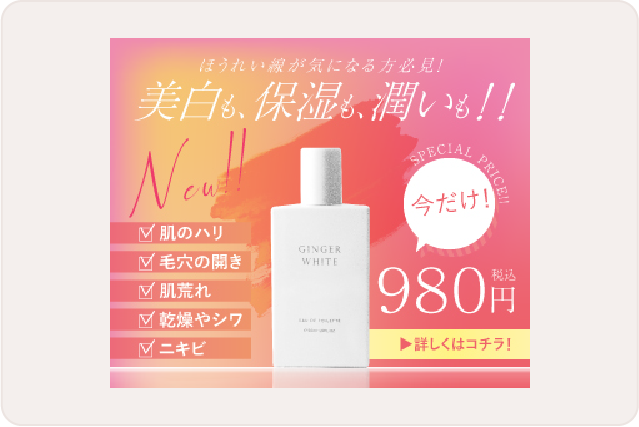
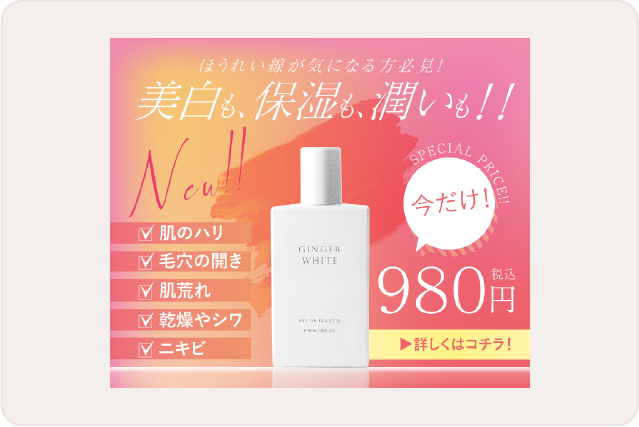
portfolio

diff --git a/Portfolio_kawamura/Works/works_banner2.html b/Portfolio_kawamura/Works/works_banner2.html
@@ -7,6 +7,9 @@
     <meta name="viewport" content="width=device-width, initial-scale=1.0">
     <title>Rena design_Works</title>
     <meta name="description" content="大阪府在住のWebデザイナーのポートフォリオサイトです。">
+    <link rel="shortcut icon" href="../favicon.ico">
+    <link rel="apple-touch-icon" href="../apple-touch-icon.png">
+    <link rel="icon" type="image/png" href="../android-chrome-192x192.png">
     <link rel="preconnect" href="https://fonts.googleapis.com">
     <link rel="preconnect" href="https://fonts.gstatic.com" crossorigin>
     <link href="https://fonts.googleapis.com/css2?family=Zen+Maru+Gothic:wght@300;400;700&display=swap"
@@ -77,7 +80,7 @@
         <section id="works" class="works">
             <h1 class="heading_main"><span class="works_w">W</span>orks</h1>
             <h2 class="heading_sub">制作したもの</h2>
-            <div class="works_img box fadeIn"><img src="../images/banner2.jpg" alt="アウトドアフェスタの告知バナー"></div>
+            <div class="works_img box fadeIn"><img src="../images/banner2top.png" alt="アウトドアフェスタの告知バナー"></div>
             <h3 class="workstitle box fadeIn">アウトドアフェスタの告知バナー</h3>
             <div class="works_content">
                 <div class="outline fade-in fade-in-up">
@@ -92,7 +95,7 @@
                 <div class="point fade-in fade-in-up">
                     <h4>制作のポイント</h4>
                     <p class="point_text">
-                        アウトドアフェスタの告知バナーをトレースしました。<br>背景の写真は、2枚の写真を自然に見えるように組み合わせました。また、アウトドアの文字上にあるテントのイラストはillustratorで作成しました。
+                        アウトドアフェスタの告知バナーをトレースしました。<br>背景の写真は、2枚の写真を自然につながって見えるように組み合わせました。また、アウトドアの文字上のテントのイラストは、illustratorで作成しました。
                     </p>
                 </div>
             </div>

diff --git a/Portfolio_kawamura/index.html b/Portfolio_kawamura/index.html
@@ -7,6 +7,9 @@
     <meta name="viewport" content="width=device-width, initial-scale=1.0">
     <title>Rena design</title>
     <meta name="description" content="大阪府在住のWebデザイナーのポートフォリオサイトです。">
+    <link rel="shortcut icon" href="favicon.ico">
+    <link rel="apple-touch-icon" href="apple-touch-icon.png">
+    <link rel="icon" type="image/png" href="android-chrome-192x192.png">
     <link rel="preconnect" href="https://fonts.googleapis.com">
     <link rel="preconnect" href="https://fonts.gstatic.com" crossorigin>
     <link href="https://fonts.googleapis.com/css2?family=Zen+Maru+Gothic:wght@300;400;700&display=swap"
@@ -216,18 +219,20 @@
                 var w = $(window).width();
                 var x = 768;
                 if (w < x) {
-                    //画面サイズが768px未満のときの処理
-                    $('.works ul').slick({
+                    $('.works ul').not('.slick-initialized').slick({
                         speed: 1000,
-                        slidesToScroll: 1,
-                        slidesToShow: 6,
-                        responsive: [{
-                            breakpoint: 767,
-                            settings: {
-                                slidesToShow: 1,
-                            }
-                        }],
+                        // slidesToScroll: 1,
+                        // slidesToShow: 1,
+                        // ↓画面サイズが768px未満のときの処理はPCとSPの設定が違う時のみ設定する
+                        // responsive: [{
+                        //     breakpoint: 767,
+                        //     settings: {
+                        //         slidesToShow: 1,
+                        //     }
+                        // }],
                     });
+                } else {
+                    $('.works ul.slick-initialized').slick('unslick');
                 }
             });
 

diff --git a/Portfolio_kawamura/Works/works_hairsalonhp.html b/Portfolio_kawamura/Works/works_hairsalonhp.html
@@ -7,6 +7,9 @@
     <meta name="viewport" content="width=device-width, initial-scale=1.0">
     <title>Rena design_Works</title>
     <meta name="description" content="大阪府在住のWebデザイナーのポートフォリオサイトです。">
+    <link rel="shortcut icon" href="../favicon.ico">
+    <link rel="apple-touch-icon" href="../apple-touch-icon.png">
+    <link rel="icon" type="image/png" href="../android-chrome-192x192.png">
     <link rel="preconnect" href="https://fonts.googleapis.com">
     <link rel="preconnect" href="https://fonts.gstatic.com" crossorigin>
     <link href="https://fonts.googleapis.com/css2?family=Zen+Maru+Gothic:wght@300;400;700&display=swap"
@@ -77,7 +80,7 @@
         <section id="works" class="works">
             <h1 class="heading_main"><span class="works_w">W</span>orks</h1>
             <h2 class="heading_sub">制作したもの</h2>
-            <div class="works_img box fadeIn"><img src="../images/hairsalonmock.jpg" alt="ヘアサロンのHP"></div>
+            <div class="works_img box fadeIn"><img src="../images/hairsalonmocktop.png" alt="ヘアサロンのHP"></div>
             <h3 class="workstitle box fadeIn">ヘアサロンのホームページ</h3>
             <div class="works_content">
                 <div class="outline fade-in fade-in-up">
@@ -97,7 +100,7 @@
             </div>
             <div class="capture fade-in fade-in-up">
                 <h4>キャプチャー</h4>
-                <div class="capture_pcimg fade-in fade-in-up"><img src="../images/hairsalon.jpg"
+                <div class="capture_pcimg fade-in fade-in-up"><img src="../images/hairsalon.png"
                         alt="PeoplegoodのPCキャプチャー"></div>
                 <div class="works_btn">
                     <a href="index.html">一覧を見る</a>

diff --git a/Portfolio_kawamura/Works/works_designcafe.html b/Portfolio_kawamura/Works/works_designcafe.html
@@ -7,6 +7,9 @@
     <meta name="viewport" content="width=device-width, initial-scale=1.0">
     <title>Rena design_Works</title>
     <meta name="description" content="大阪府在住のWebデザイナーのポートフォリオサイトです。">
+    <link rel="shortcut icon" href="../favicon.ico">
+    <link rel="apple-touch-icon" href="../apple-touch-icon.png">
+    <link rel="icon" type="image/png" href="../android-chrome-192x192.png">
     <link rel="preconnect" href="https://fonts.googleapis.com">
     <link rel="preconnect" href="https://fonts.gstatic.com" crossorigin>
     <link href="https://fonts.googleapis.com/css2?family=Zen+Maru+Gothic:wght@300;400;700&display=swap"
@@ -98,14 +101,14 @@
             </div>
             <div class="capture">
                 <h4 class="fade-in fade-in-up">キャプチャー</h4>
-                <div class="capture_pcimg fade-in fade-in-up"><img src="../images/designcafe.jpg"
+                <div class="capture_pcimg fade-in fade-in-up"><img src="../images/designcafe.png"
                         alt="DESIGN CAFEのPCキャプチャー">
                 </div>
                 <div class="capture_spimg">
-                    <div class="capturepcimg fade-in fade-in-up"><img src="../images/designpc_sp.jpg"
+                    <div class="capturepcimg fade-in fade-in-up"><img src="../images/designpc_sp.png"
                             alt="DESIGN CAFEのPCキャプチャー">
                     </div>
-                    <div class="capturespimg fade-in fade-in-up"><img src="../images/designcafesp_sp.jpg"
+                    <div class="capturespimg fade-in fade-in-up"><img src="../images/designcafesp_sp.png"
                             alt="DESIGN CAFEのspキャプチャー">
                     </div>
                 </div>

diff --git a/Portfolio_kawamura/Works/works_banner3.html b/Portfolio_kawamura/Works/works_banner3.html
@@ -7,6 +7,9 @@
     <meta name="viewport" content="width=device-width, initial-scale=1.0">
     <title>Rena design_Works</title>
     <meta name="description" content="大阪府在住のWebデザイナーのポートフォリオサイトです。">
+    <link rel="shortcut icon" href="../favicon.ico">
+    <link rel="apple-touch-icon" href="../apple-touch-icon.png">
+    <link rel="icon" type="image/png" href="../android-chrome-192x192.png">
     <link rel="preconnect" href="https://fonts.googleapis.com">
     <link rel="preconnect" href="https://fonts.gstatic.com" crossorigin>
     <link href="https://fonts.googleapis.com/css2?family=Zen+Maru+Gothic:wght@300;400;700&display=swap"
@@ -77,7 +80,7 @@
         <section id="works" class="works">
             <h1 class="heading_main"><span class="works_w">W</span>orks</h1>
             <h2 class="heading_sub">制作したもの</h2>
-            <div class="works_img box fadeIn"><img src="../images/banner3.jpg" alt="不動産セミナーの広告バナー"></div>
+            <div class="works_img box fadeIn"><img src="../images/banner3top.png" alt="不動産セミナーの広告バナー"></div>
             <h3 class="workstitle box fadeIn">不動産セミナーの広告バナー</h3>
             <div class="works_content">
                 <div class="outline fade-in fade-in-up">

diff --git a/Portfolio_kawamura/Works/works_banner1.html b/Portfolio_kawamura/Works/works_banner1.html
@@ -7,6 +7,9 @@
     <meta name="viewport" content="width=device-width, initial-scale=1.0">
     <title>Rena design_Works</title>
     <meta name="description" content="大阪府在住のWebデザイナーのポートフォリオサイトです。">
+    <link rel="shortcut icon" href="../favicon.ico">
+    <link rel="apple-touch-icon" href="../apple-touch-icon.png">
+    <link rel="icon" type="image/png" href="../android-chrome-192x192.png">
     <link rel="preconnect" href="https://fonts.googleapis.com">
     <link rel="preconnect" href="https://fonts.gstatic.com" crossorigin>
     <link href="https://fonts.googleapis.com/css2?family=Zen+Maru+Gothic:wght@300;400;700&display=swap"
@@ -77,7 +80,7 @@
         <section id="works" class="works">
             <h1 class="heading_main"><span class="works_w">W</span>orks</h1>
             <h2 class="heading_sub">制作したもの</h2>
-            <div class="works_img box fadeIn"><img src="../images/banner1.jpg" alt="化粧品新商品の広告バナー"></div>
+            <div class="works_img box fadeIn"><img src="../images/banner1top.png" alt="化粧品新商品の広告バナー"></div>
             <h3 class="workstitle box fadeIn">化粧品新商品の広告バナー</h3>
             <div class="works_content">
                 <div class="outline  fade-in fade-in-up">

diff --git a/Portfolio_kawamura/css/style-works.css b/Portfolio_kawamura/css/style-works.css
@@ -2,7 +2,7 @@
 
 /* ワークス */
 .works {
-    padding: 0 10px 100px;
+    padding-bottom: 127px;
     background-color: #fff;
 }
 
@@ -25,7 +25,7 @@
 .works ul {
     max-width: 1000px;
     margin: 0 auto;
-    padding: 0 10px;
+    /* padding: 0 10px; */
     display: flex;
     justify-content: space-between;
     flex-wrap: wrap;
@@ -35,10 +35,13 @@
     margin-bottom: 23px;
 }
 
-@media screen and (max-width: 1020px) {
-    h3 {
-        margin: 0 auto 30px 23px;
+@media screen and (min-width: 768px) and (max-width: 1020px) {
+    .subtitle {
+        margin: 0 23px 30px;
     }
+}
+
+@media screen and (max-width: 1020px) {
     .works ul {
         padding: 0 23px;
     }
@@ -48,17 +51,20 @@
 }
 @media screen and (max-width: 767px) {
     .works {
-        padding-bottom: 70px;
+        padding: 0 17.5px 70px;
     }
-    h3 {
+    /* .h3 {
         max-width: 340px;
         margin: 0 auto 30px;
-    }
+    } */
     .works ul {
         padding: 0;
     }
     .works ul li {
-        width: 340px;
+        width: 100%;
         margin: 0 auto 30px;
+    }
+    .works ul li img {
+        width: 100%;
     }
 }

diff --git a/Portfolio_kawamura/Works/index.html b/Portfolio_kawamura/Works/index.html
@@ -7,6 +7,9 @@
     <meta name="viewport" content="width=device-width, initial-scale=1.0">
     <title>Rena design_Works</title>
     <meta name="description" content="大阪府在住のWebデザイナーのポートフォリオサイトです。">
+    <link rel="shortcut icon" href="../favicon.ico">
+    <link rel="apple-touch-icon" href="../apple-touch-icon.png">
+    <link rel="icon" type="image/png" href="../android-chrome-192x192.png">
     <link rel="preconnect" href="https://fonts.googleapis.com">
     <link rel="preconnect" href="https://fonts.gstatic.com" crossorigin>
     <link href="https://fonts.googleapis.com/css2?family=Zen+Maru+Gothic:wght@300;400;700&display=swap"

diff --git a/Portfolio_kawamura/Works/works_peoplegood.html b/Portfolio_kawamura/Works/works_peoplegood.html
@@ -7,6 +7,9 @@
     <meta name="viewport" content="width=device-width, initial-scale=1.0">
     <title>Rena design_Works</title>
     <meta name="description" content="大阪府在住のWebデザイナーのポートフォリオサイトです。">
+    <link rel="shortcut icon" href="../favicon.ico">
+    <link rel="apple-touch-icon" href="../apple-touch-icon.png">
+    <link rel="icon" type="image/png" href="../android-chrome-192x192.png">
     <link rel="preconnect" href="https://fonts.googleapis.com">
     <link rel="preconnect" href="https://fonts.gstatic.com" crossorigin>
     <link href="https://fonts.googleapis.com/css2?family=Zen+Maru+Gothic:wght@300;400;700&display=swap"

diff --git a/Portfolio_kawamura/css/style.css b/Portfolio_kawamura/css/style.css
@@ -413,6 +413,11 @@ form a {
     padding: 17px 0;
 }
 
+.slick-slide img {
+    display: block;
+    margin: 0 auto;
+}
+
 @media screen and (max-width: 767px) {
     label,
     input,
@@ -423,6 +428,7 @@ form a {
 
 @media screen and (max-width: 767px) {
     .slick-slide img {
+        width: 100%;
         padding: 5px;
         box-sizing: border-box;
     }

diff --git a/Portfolio_kawamura/css/common.css b/Portfolio_kawamura/css/common.css
@@ -79,6 +79,9 @@ header {
     .sp_nav {
         display: none;
     }
+    .sp_backdrop {
+        display: none;
+    }
 }
 
 /* 幅767以下でPC版メニューを消す */
